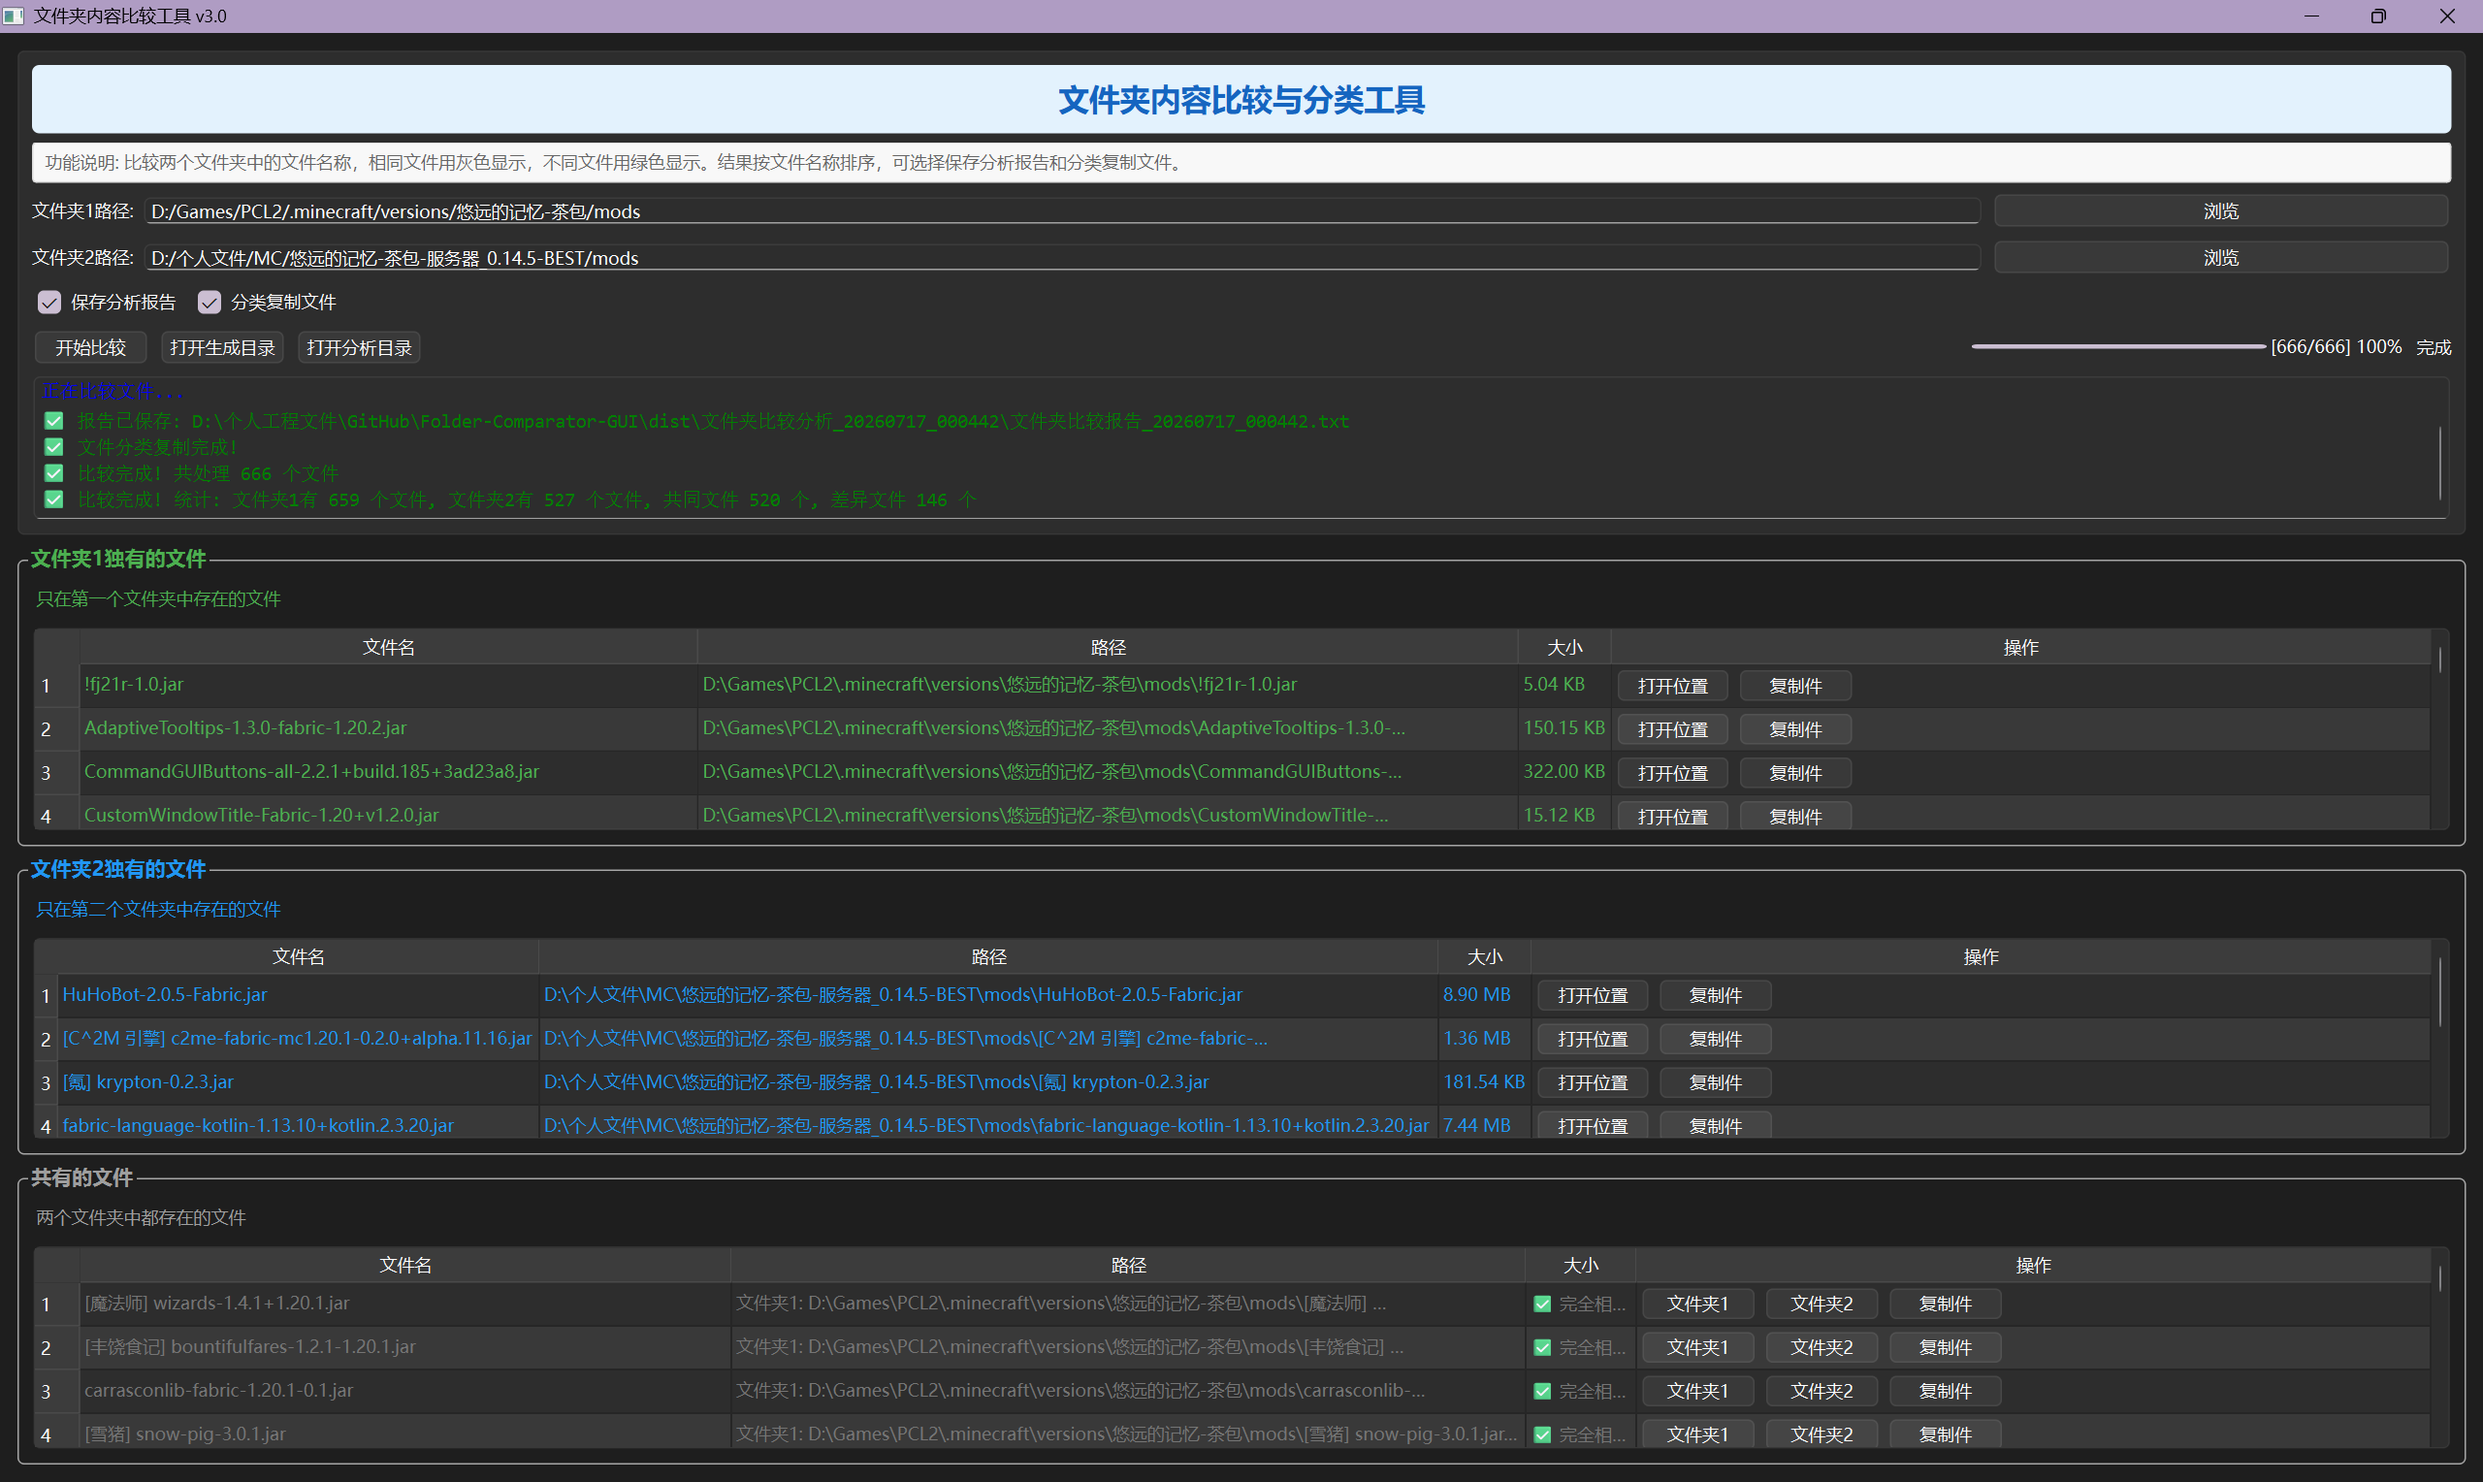
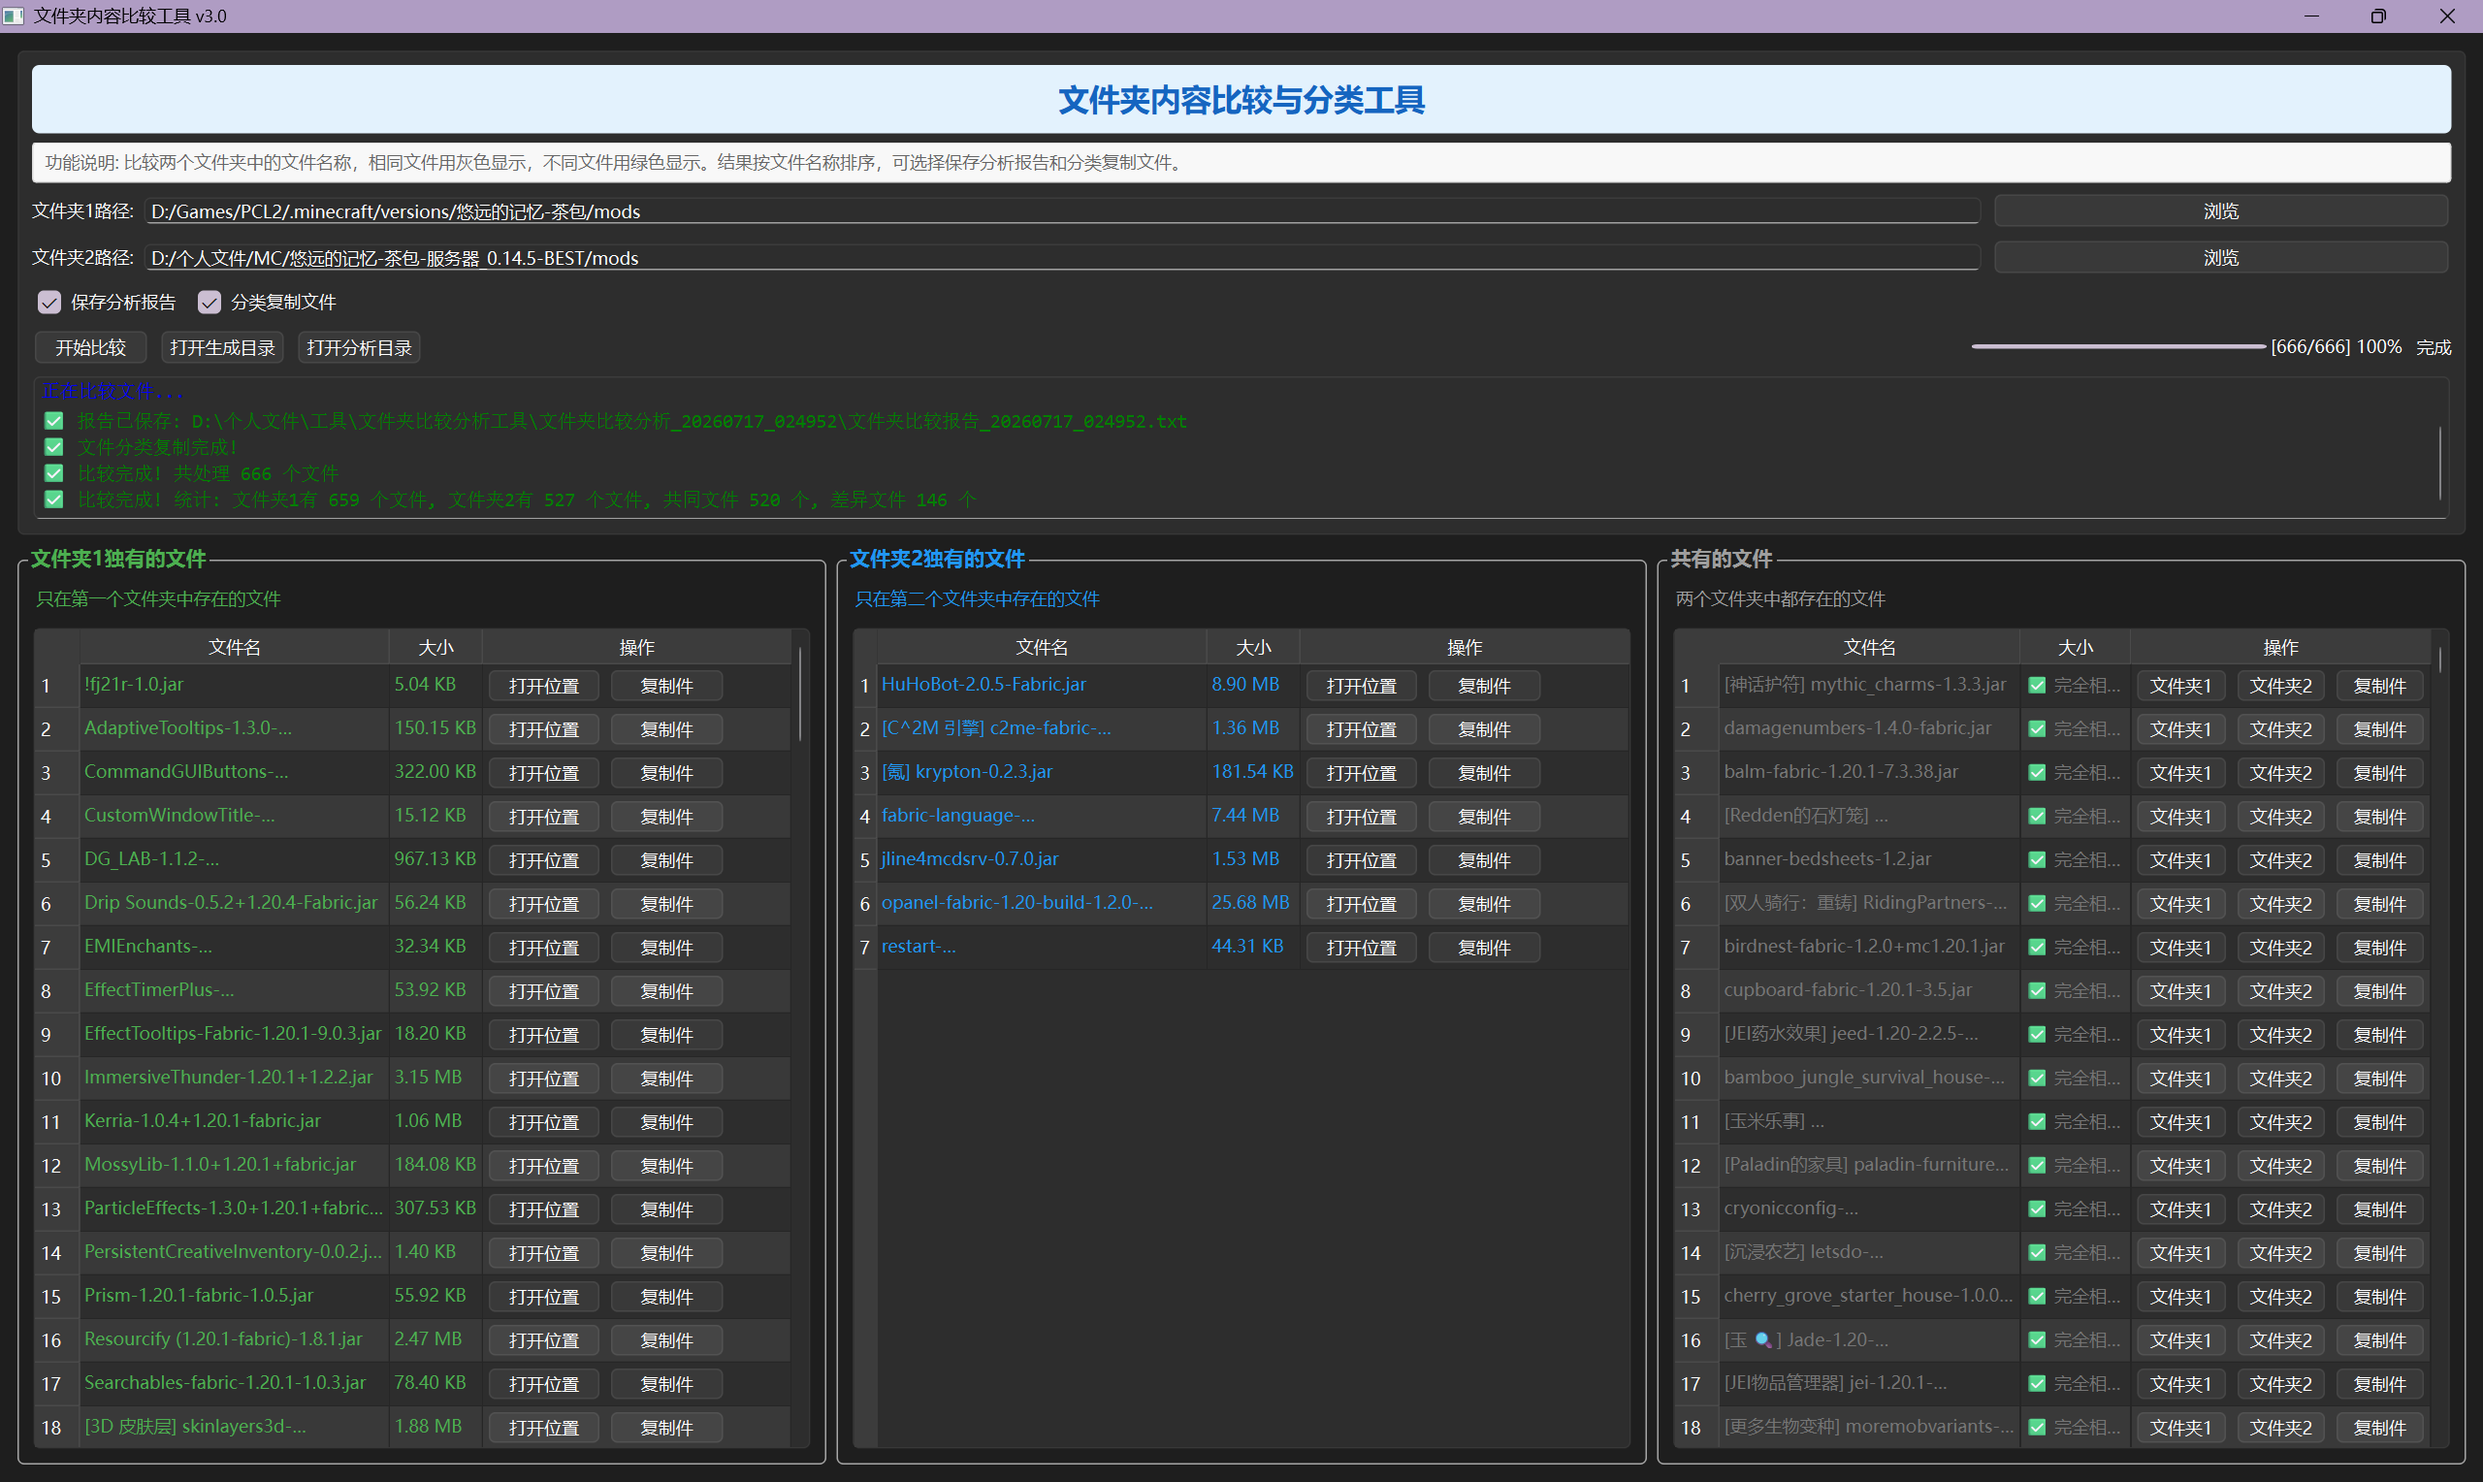
更新md文件与截图

diff --git a/README.md b/README.md
@@ -31,8 +31,14 @@
 ![程序界面截图](screenshot.png)
 
 🚀 安装说明
-环境要求
-Python 3.8 或更高版本
+
+1. 仓库资源下载EXE运行包
+
+或
+
+2. 克隆仓库源码
+   环境要求
+   Python 3.8 或更高版本
 
 PyQt6 库
 
@@ -90,9 +96,6 @@ python folder-comparator-gui.py
 一键打开文件所在位置
 
 访问生成的报告和整理好的文件
-
-🖼 界面截图
-(在此添加应用程序的截图)
 
 🛠 技术细节
 文件结构
@@ -201,29 +204,3 @@ pip install -r requirements.txt
 检查 Issues 是否已有类似问题
 
 创建新的 Issue 描述问题或建议
-
-通过邮箱联系我们
-
-📈 版本历史
-v3.0 (当前版本)
-完整的 GUI 界面重写
-
-添加拖拽支持
-
-改进的多线程处理
-
-增强的报告功能
-
-v2.0
-添加命令行颜色输出
-
-改进文件分类逻辑
-
-添加自动报告生成
-
-v1.0
-初始版本
-
-基本文件夹比较功能
-
-简单的文件分类
